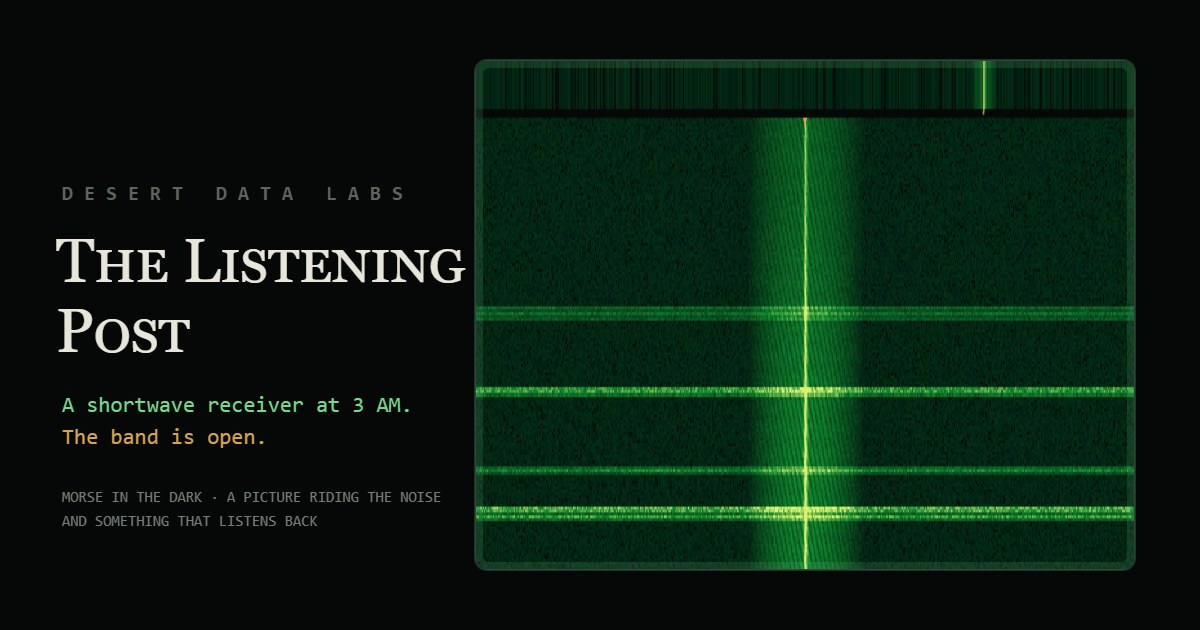
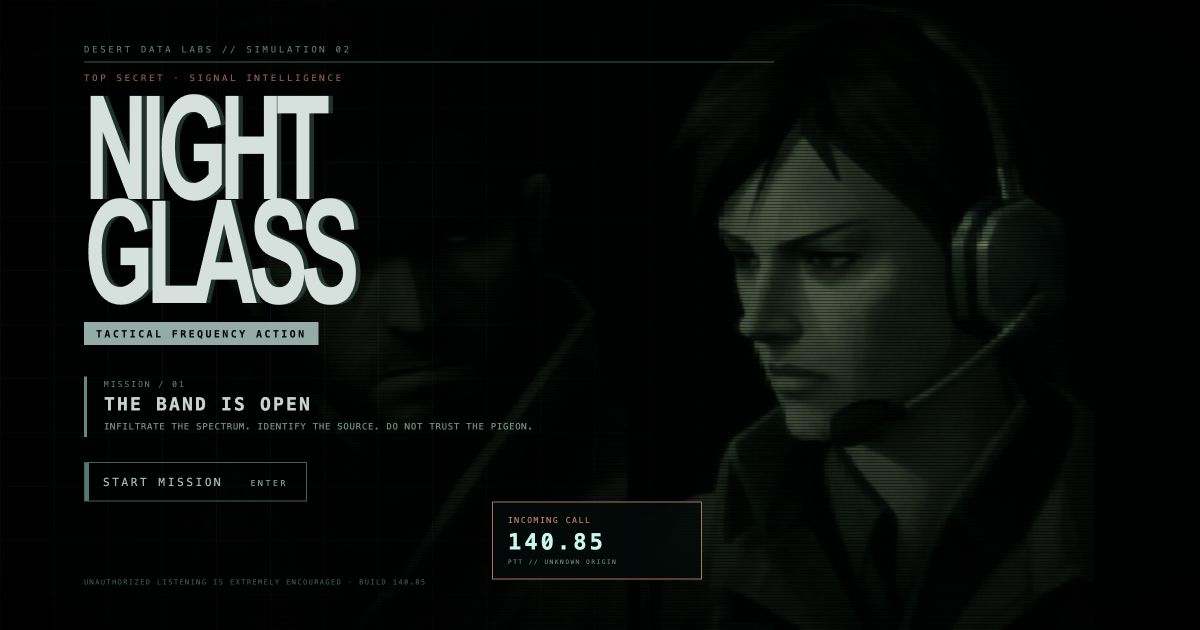
Update NIGHT GLASS social preview

diff --git a/build.js b/build.js
@@ -40,18 +40,18 @@ const page = `<!doctype html>
 <meta charset="utf-8">
 <meta name="viewport" content="width=device-width, initial-scale=1">
 <title>The Listening Post · a Desert Data Labs experience</title>
-<meta name="description" content="A shortwave receiver at 3 AM. Three bands, a waterfall, and voices in the static — beacons, a numbers station, a picture riding the noise, and something that listens back.">
-<meta property="og:title" content="The Listening Post · Desert Data Labs">
-<meta property="og:description" content="The band is open. Tune the dial: morse in the dark, a picture riding the noise, and something that listens back.">
+<meta name="description" content="NIGHT GLASS: a tactical frequency operation in the static. Tune the receiver, answer the codec, evade the trace, and do not trust the pigeon.">
+<meta property="og:title" content="NIGHT GLASS · The Listening Post">
+<meta property="og:description" content="The band is open. Tune the receiver, answer the codec, evade the trace, and do not trust the pigeon.">
 <meta property="og:type" content="website">
 <meta property="og:url" content="https://tgilbert14.github.io/listening-post/">
 <meta property="og:image" content="https://tgilbert14.github.io/listening-post/og-card.jpg">
 <meta property="og:image:width" content="1200">
 <meta property="og:image:height" content="630">
-<meta property="og:image:alt" content="A phosphor-green spectrum waterfall at zero-beat on AURORA, lightning crashes across the band.">
+<meta property="og:image:alt" content="NIGHT GLASS tactical frequency action cover with a pixelated radio operator and an incoming codec call on 140.85.">
 <meta name="twitter:card" content="summary_large_image">
 <meta name="twitter:image" content="https://tgilbert14.github.io/listening-post/og-card.jpg">
-<meta name="twitter:image:alt" content="A phosphor-green spectrum waterfall at zero-beat on AURORA, lightning crashes across the band.">
+<meta name="twitter:image:alt" content="NIGHT GLASS tactical frequency action cover with a pixelated radio operator and an incoming codec call on 140.85.">
 <meta name="theme-color" content="#050807">
 <link rel="canonical" href="https://tgilbert14.github.io/listening-post/">
 <link rel="manifest" href="manifest.webmanifest">

diff --git a/index.html b/index.html
@@ -4,18 +4,18 @@
 <meta charset="utf-8">
 <meta name="viewport" content="width=device-width, initial-scale=1">
 <title>The Listening Post · a Desert Data Labs experience</title>
-<meta name="description" content="A shortwave receiver at 3 AM. Three bands, a waterfall, and voices in the static — beacons, a numbers station, a picture riding the noise, and something that listens back.">
-<meta property="og:title" content="The Listening Post · Desert Data Labs">
-<meta property="og:description" content="The band is open. Tune the dial: morse in the dark, a picture riding the noise, and something that listens back.">
+<meta name="description" content="NIGHT GLASS: a tactical frequency operation in the static. Tune the receiver, answer the codec, evade the trace, and do not trust the pigeon.">
+<meta property="og:title" content="NIGHT GLASS · The Listening Post">
+<meta property="og:description" content="The band is open. Tune the receiver, answer the codec, evade the trace, and do not trust the pigeon.">
 <meta property="og:type" content="website">
 <meta property="og:url" content="https://tgilbert14.github.io/listening-post/">
 <meta property="og:image" content="https://tgilbert14.github.io/listening-post/og-card.jpg">
 <meta property="og:image:width" content="1200">
 <meta property="og:image:height" content="630">
-<meta property="og:image:alt" content="A phosphor-green spectrum waterfall at zero-beat on AURORA, lightning crashes across the band.">
+<meta property="og:image:alt" content="NIGHT GLASS tactical frequency action cover with a pixelated radio operator and an incoming codec call on 140.85.">
 <meta name="twitter:card" content="summary_large_image">
 <meta name="twitter:image" content="https://tgilbert14.github.io/listening-post/og-card.jpg">
-<meta name="twitter:image:alt" content="A phosphor-green spectrum waterfall at zero-beat on AURORA, lightning crashes across the band.">
+<meta name="twitter:image:alt" content="NIGHT GLASS tactical frequency action cover with a pixelated radio operator and an incoming codec call on 140.85.">
 <meta name="theme-color" content="#050807">
 <link rel="canonical" href="https://tgilbert14.github.io/listening-post/">
 <link rel="manifest" href="manifest.webmanifest">